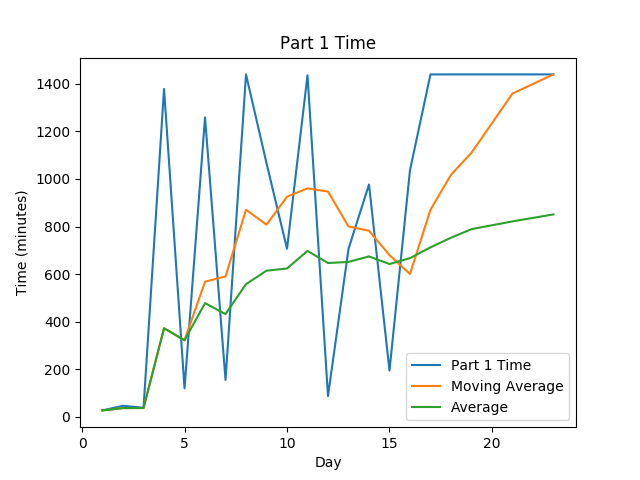
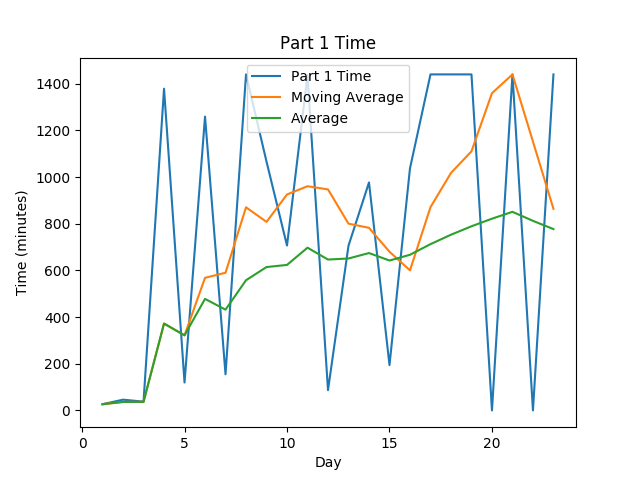
Fill unfinished parts

diff --git a/scripts/generate_stats.py b/scripts/generate_stats.py
@@ -190,11 +190,26 @@ def _get_stat_column(results: Dict[Tuple[Union[int, Any], int], Dict], column: s
         -> (Dict[int, Any], Dict[int, Any]):
     col_a = OrderedDict()
     col_b = OrderedDict()
+    maxDayFinished = 0
     for entry in results:
+        if entry[1] > maxDayFinished:
+            maxDayFinished = entry[1]
         if 'a' in results[entry].keys():
             col_a[entry[1]] = results[entry]['a'][column]
         if 'b' in results[entry].keys():
             col_b[entry[1]] = results[entry]['b'][column]
+
+    for i in range(1,maxDayFinished):
+        if not(i in col_a):
+            if column == "time":
+                col_a[i] = timedelta(seconds=-1)
+            else:
+                col_a[i] = -1
+        if not(i in col_b):
+            if column == "time":
+                col_b[i] = timedelta(seconds=-1)
+            else:
+                col_b[i] = -1
     return col_a, col_b
 
 
@@ -224,3 +239,4 @@ def _get_token() -> str:
 resultsDict = get_stats(cookie={"session": _get_token()}, years={int(sys.argv[2])})
 generate_graphs(resultsDict)
 print_table(resultsDict)
+
